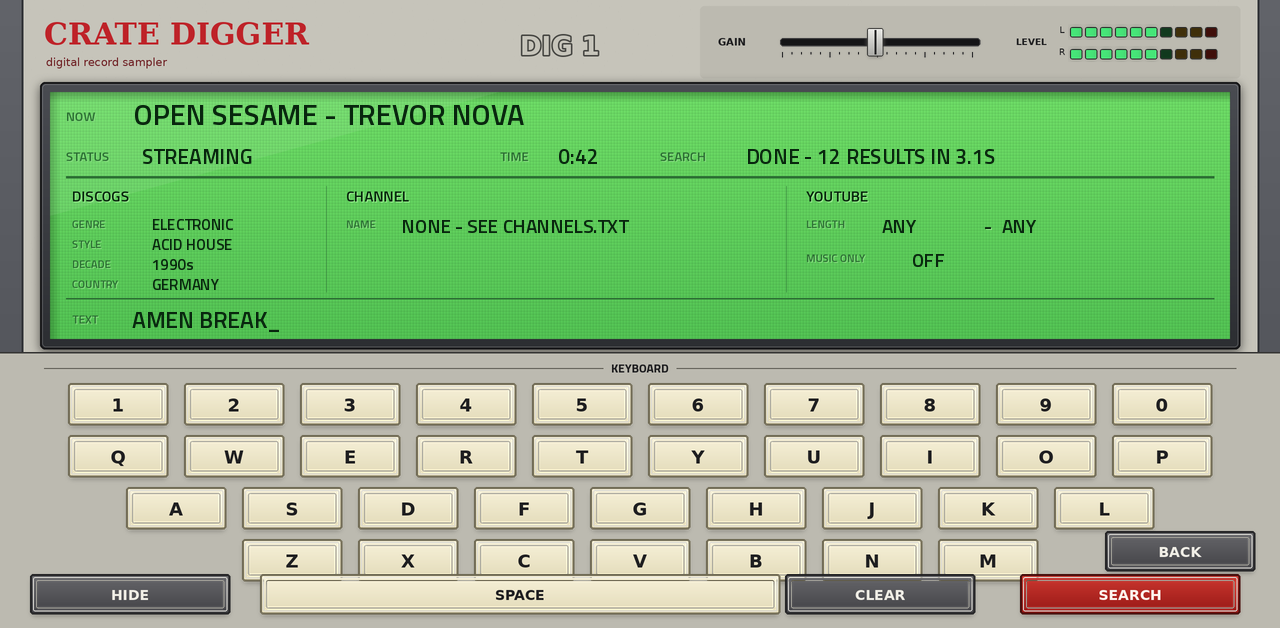
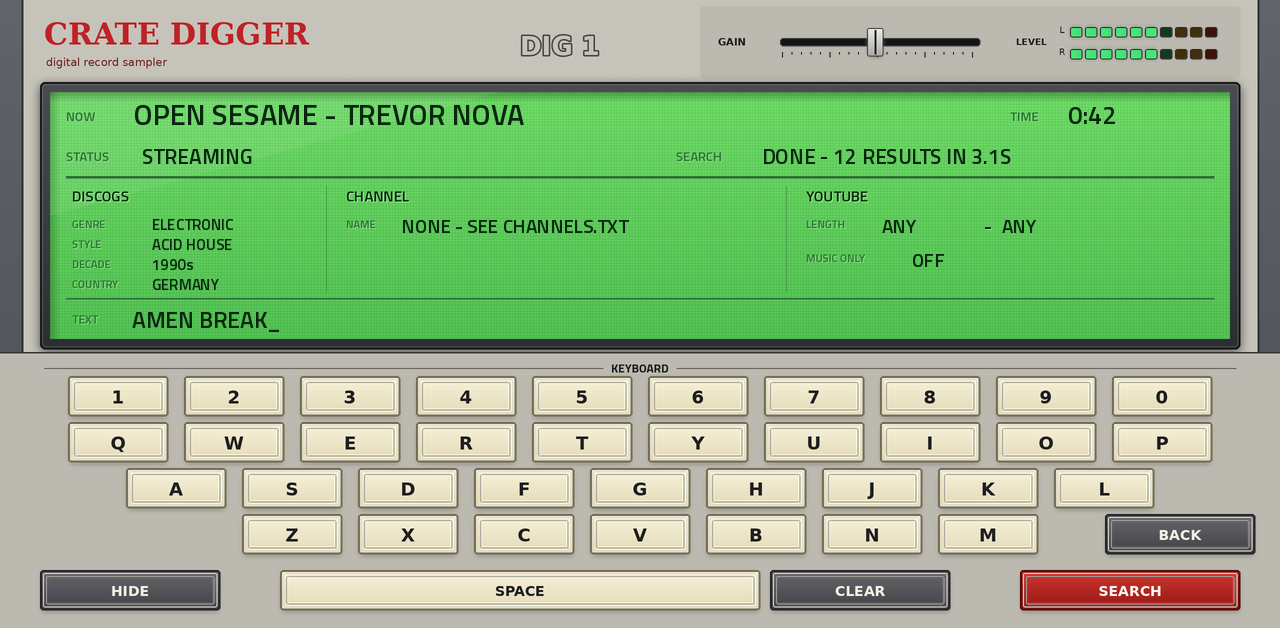
Skin v5b: LCD filter cells aligned over their knobs, TIME to the top right, keyboard rows re-spaced
Claude-Session: https://claude.ai/code/session_01CpoP2qu5ZsqRy4MZa8fTES

diff --git a/tools/make_tui.py b/tools/make_tui.py
@@ -238,19 +238,19 @@ def lcd_frame(c, box):
 
 
 def lcd_header_static(c, x0, y0, x1):
-    """The three readouts every tab shows on its LCD: NOW (big) over STATUS / TIME / SEARCH."""
+    """The readouts every tab shows on its LCD: NOW (big) with TIME at the top right, then STATUS (roomy) and SEARCH."""
     M.lt(c, (x0, 116), "NOW", 13, dim=True)
+    M.lt(c, (1010, 116), "TIME", 13, dim=True)
     M.lt(c, (x0, 156), "STATUS", 13, dim=True)
-    M.lt(c, (500, 156), "TIME", 13, dim=True)
-    M.lt(c, (660, 156), "SEARCH", 13, dim=True)
+    M.lt(c, (676, 156), "SEARCH", 13, dim=True)
     c.d.rectangle([x0 * S, 176 * S, (x1 + 2) * S, 178 * S], fill=M.LCD_DIM)
 
 
 def lcd_header_live(p, x0, y0, x1):
-    p.lcd_text("now_playing", x0 + 66, 114, x1 - x0 - 70, size=30, h=44)
-    p.lcd_text("status", x0 + 74, 156, 380, size=22, h=32)
-    p.lcd_text("time", 500 + 56, 156, 100, size=22, h=32)
-    p.lcd_text("search_status", 660 + 84, 156, x1 - 660 - 84, size=22, h=32)
+    p.lcd_text("now_playing", x0 + 66, 114, 780, size=30, h=44)
+    p.lcd_text("time", 1066, 114, 146, size=26, h=40)
+    p.lcd_text("status", x0 + 74, 156, 520, size=22, h=32)
+    p.lcd_text("search_status", 676 + 84, 156, x1 - 676 - 84, size=22, h=32)
 
 
 def row_def(w, h):
@@ -317,28 +317,26 @@ def build_filters():
     M.lcd(c, (40, 82, 1240, 400))
     lcd_header_static(c, 66, 112, 1212)
     lcd_header_live(p, 66, 112, 1212)
-    for i, (key, cap) in enumerate(FILTERS):
-        col, row = i // 3, i % 3
-        x0, y0 = 66 + col * 590, 186 + row * 66
-        M.lt(c, (x0, y0 + 16), "%02d" % (i + 1), 22)
-        M.lt(c, (x0 + 56, y0 + 52), cap, 13, dim=True)
-        p.lcd_text(key, x0 + 52, y0 + 20, 520, size=34, h=48, handle="Text")
-    M.lt(c, (66 + 590 + 56, 186 + 2 * 66 + 12), "STYLE FOLLOWS GENRE", 15, dim=True)
-    M.lt(c, (66 + 590 + 56, 186 + 2 * 66 + 40), "COUNTRY FOLLOWS REGION", 15, dim=True)
     BLUE, WHITE = (44, 96, 144), (244, 244, 236)
+    CEN = "horizontallyCentred verticallyCentred"
+    # the LCD in five columns, each directly above the knob of the same number and name
+    for i, (key, cap) in enumerate(FILTERS):
+        cx = 142 + i * 188
+        if i:
+            c.d.line([((cx - 94) * S, 192 * S), ((cx - 94) * S, 342 * S)], fill=M.LCD_DIM + (120,), width=S)
+        M.lt(c, (cx, 208), "%02d  %s" % (i + 1, cap), 15, anchor="mm")
+        p.lcd_text(key, cx - 88, 268, 176, size=26, h=44, just=CEN, handle="Text")
+    M.lt(c, (640, 366), "STYLE LIST FOLLOWS GENRE   -   COUNTRY LIST FOLLOWS REGION", 13, dim=True, anchor="mm")
     M.plate(c, (40, 414, 1240, 614), "DISCOGS FILTERS", color=BLUE, ink=WHITE)
     for i, (key, cap) in enumerate(FILTERS):
         cx = 142 + i * 188
-        # the same number and name as the LCD cell above, the knob, a window repeating the cell's value, the arrows
         c.t((cx, 450), "%02d  %s" % (i + 1, cap), 12, WHITE, "mm", "tb")
-        M.knob(c, cx, 498, 30, 0.0, None, big=True, numbers=False, only_ruler=True, ruler_ink=WHITE)
-        add_knob(p, key, cx, 498, 30)
-        M.lcd_mini(c, (cx - 72, 538, cx + 72, 566))
-        p.lcd_text(key, cx - 68, 552, 136, size=15, h=22, just="horizontallyCentred verticallyCentred", handle="Text")
-        arrow(p, key + "_prev", "◄", cx - 42, 592, h=26)
-        arrow(p, key + "_next", "►", cx + 42, 592, h=26)
+        M.knob(c, cx, 512, 34, 0.0, None, big=True, numbers=False, only_ruler=True, ruler_ink=WHITE)
+        add_knob(p, key, cx, 512, 34)
+        arrow(p, key + "_prev", "◄", cx - 44, 582)
+        arrow(p, key + "_next", "►", cx + 44, 582)
     p.key("search", "SEARCH", "red", 1110, 520, 190, 62, size=16)
-    c.t((1110, 566), "SEARCH DISCOGS", 9, (244, 244, 236))
+    c.t((1110, 566), "SEARCH DISCOGS", 9, WHITE)
     add_master(p)
     p.qgroup((40, 420, 830, 610), ["genre", "style", "decade", "region"])
     p.qgroup((806, 424, 1240, 610), ["country", "search"])
@@ -418,9 +416,9 @@ def build_find():
     for ri, row in enumerate(rows):
         x0 = 118 + [0, 0, 58, 174][ri]
         for k, ch in enumerate(row):
-            p.key("k_" + ch, ch, "blue" if ri == 0 else "cream", x0 + k * 116, 382 + ri * 52 + 22, 100, 42, size=18, ind=ind, nm="kb_" + ch)
-    for param, lab, cx, cy, w, col in [("k_hide", "HIDE", 130, 594, 200, "dark"), ("k_space", "SPACE", 520, 594, 520, "cream"), ("k_clear", "CLEAR", 880, 594, 190, "dark"),
-                                       ("k_send", "SEARCH", 1130, 594, 220, "red"), ("k_back", "BACK", 1180, 551, 150, "dark")]:
+            p.key("k_" + ch, ch, "blue" if ri == 0 else "cream", x0 + k * 116, 396 + ri * 46, 100, 40, size=18, ind=ind, nm="kb_" + ch)
+    for param, lab, cx, cy, w, col in [("k_hide", "HIDE", 130, 590, 180, "dark"), ("k_space", "SPACE", 520, 590, 480, "cream"), ("k_clear", "CLEAR", 860, 590, 180, "dark"),
+                                       ("k_send", "SEARCH", 1130, 590, 220, "red"), ("k_back", "BACK", 1180, 534, 150, "dark")]:
         p.key(param, lab, col, cx, cy, w, 40, size=14, ind=ind, nm="kb_" + param)
     return p, c
 
@@ -476,7 +474,8 @@ def preview(pages, tabs):
                 rp = e["handle remapping"]["map"][0]["value"] if e["handle remapping"]["map"] else None
                 key = LOCK[int(rp.split()[1])] if rp else ""
                 txt = SAMPLE.get(key, ROWS[int(key.split("_")[1]) - 1] if key.startswith("result_") else key)
-                d.text((x + 2, y + h / 2), txt, font=M.ImageFont.truetype(M.TIT, int(float(cd["data"]["textStyle"]["font"]["height"]) * TUI_PX)), fill=(8, 38, 14), anchor="lm")
+                cen = "horizontallyCentred" in cd["data"]["textStyle"]["justification"]
+                d.text((x + w / 2 if cen else x + 2, y + h / 2), txt, font=M.ImageFont.truetype(M.TIT, int(float(cd["data"]["textStyle"]["font"]["height"]) * TUI_PX)), fill=(8, 38, 14), anchor="mm" if cen else "lm")
             elif cd["type"] in defs:
                 comp = defs[cd["type"]]
                 for sub in comp["componentsData"]:
